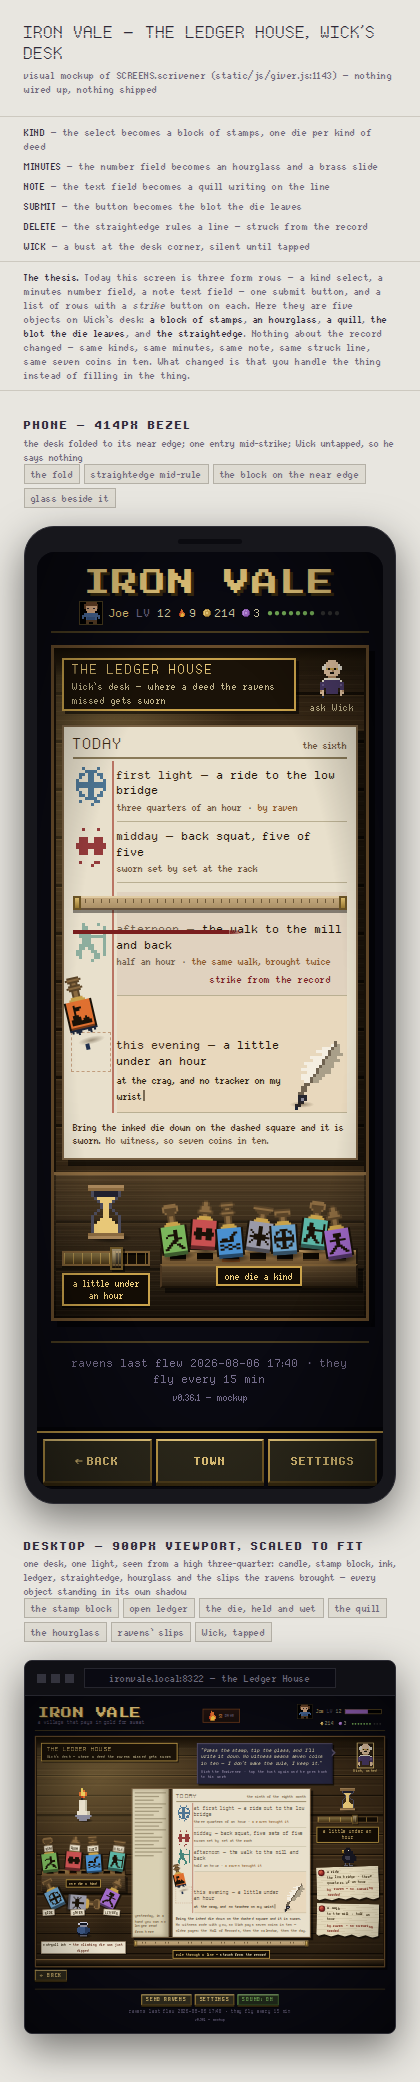
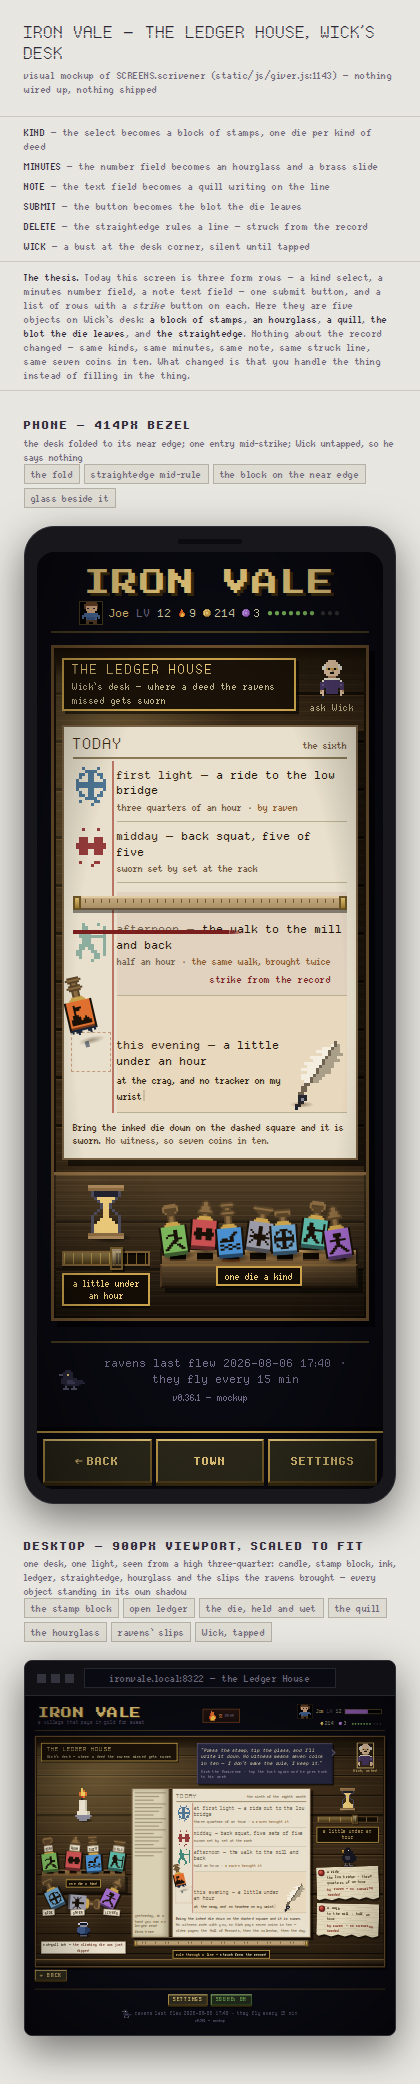
docs: ravens leave the button bars in the mockup chrome

diff --git a/docs/mockups/_harness.js b/docs/mockups/_harness.js
@@ -196,6 +196,9 @@ body { margin:0; background:var(--wall); color:var(--note); font-family:'quanta-
 .iv .phone-dock { display:none; }
 .iv-phone .phone-dock { display:grid; grid-template-columns:repeat(3,minmax(0,1fr)); gap:4px; padding:6px;
   border-top:2px solid var(--gold); background:rgba(10,10,18,0.97); box-shadow:0 -4px 0 rgba(0,0,0,0.45); position:relative; z-index:55; }
+/* the ambient raven sits on the fine-print line — no border, no button chrome */
+.iv .raven-line { display:flex; align-items:flex-end; justify-content:center; gap:6px; }
+.iv .raven-line .raven-perch { display:block; position:relative; top:3px; }
 .iv .dock-action { display:inline-flex; align-items:center; justify-content:center; gap:3px; min-height:44px; padding:4px;
   font-family:var(--font-body); font-size:var(--type-body); font-weight:700; line-height:1; text-transform:uppercase;
   color:var(--gold-bright); border:2px solid; border-color:var(--gold-bright) #7a5f28 #52401c var(--gold);
@@ -391,6 +394,17 @@ body { margin:0; background:var(--wall); color:var(--note); font-family:'quanta-
       '..WWWWWW..', '.WwwwwwwW.', '.iiiiiiii.', '.WwwwwwwW.', '.WwwwwwwW.',
       '.iiiiiiii.', '.WwwwwwwW.', '..WWWWWW..',
     ]},
+    /* hand-authored: the ambient raven. Ravens are sync; they are birds, not a
+       button. Perched small on the footer's fine-print line — calm by default,
+       head turned when one is waiting. */
+    raven_perch: { p: { k: '#2a2a3e', K: '#454560', d: '#17172a', b: '#5a5a70', e: '#f0d080' }, r: [
+      '...kkk.......', '..kkkkk......', 'bbkkekk......', '..kkkkk......', '.kkkkkkkk....',
+      '.kkkKKKkkkkk.', '.kkkKKKKkkkkk', '..dkkkkkkkd..', '...b...b.....', '..bbb.bbb....',
+    ]},
+    raven_perch_waiting: { p: { k: '#2a2a3e', K: '#454560', d: '#17172a', b: '#5a5a70', e: '#f0d080' }, r: [
+      '...kkk.......', '..kkkkk......', '..kkkekbb....', '..kkkkk......', '.kkkkkkkk....',
+      '.kkkKKKkkkkk.', '.kkkKKKKkkkkk', '..dkkkkkkkd..', '...b...b.....', '..bbb.bbb....',
+    ]},
     stone_pile: { p: { s: '#62626e', S: '#84848f' }, r: [
       '.....SSSS.....', '....SsSSSS....', '..SSSSssSSSS..', '.SSssSSSSssSS.',
       '.SSssSSSSssSS.', '.SSSSSSSSSSSS.',
@@ -567,21 +581,24 @@ body { margin:0; background:var(--wall); color:var(--note); font-family:'quanta-
   </div>`;
   };
 
-  /* IV.footer() — SEND RAVENS / SETTINGS / SOUND: ON + the raven line.
+  /* IV.footer() — SETTINGS / SOUND: ON, then the ambient raven line.
+     Ravens are NOT a button any more: there is no SEND RAVENS action in the
+     footer or the dock. Sync shows itself as a bird perched on the fine print,
+     with `opts.ravenWaiting` turning its head when one is waiting.
      The .backrow and .footer-btns hide themselves under .iv-phone (CSS), so the
      same string serves both frames. */
   IV.footer = function (opts) {
     opts = opts || {};
     var ravens = opts.ravens == null ? '2026-08-06 17:40' : opts.ravens;
     var version = opts.version == null ? 'v0.36.1 &mdash; mockup' : opts.version;
+    var bird = opts.ravenWaiting ? 'raven_perch_waiting' : 'raven_perch';
     return `<div class="backrow"><button class="btn small">&larr; BACK</button></div>
   <div class="footer">
     <div class="footer-btns">
-      <button class="btn small">SEND RAVENS</button>
       <button class="btn small">SETTINGS</button>
       <button class="btn small green">SOUND: ON</button>
     </div>
-    <div class="muted">ravens last flew ${ravens} &middot; they fly every 15 min</div>
+    <div class="muted raven-line">${IV.spriteTag(bird, 26, 'raven-perch')}<span>ravens last flew ${ravens} &middot; they fly every 15 min</span></div>
     <div class="muted fine" style="margin-top:4px">${version}</div>
   </div>`;
   };

diff --git a/docs/mockups/place-forge.html b/docs/mockups/place-forge.html
@@ -97,7 +97,10 @@
 .iv .hut .door-lintel i { position:absolute; top:3px; width:3px; height:3px; background:#c8c2b0;
   box-shadow:0 0 0 1px rgba(0,0,0,0.6); }
 .iv .hut .door-lintel i.n1 { left:4px; } .iv .hut .door-lintel i.n2 { right:4px; }
-.iv-phone .hut .door-lintel { left:-9px; right:-9px; font-size:var(--type-fine); letter-spacing:0.5px; }
+.iv-phone .hut .door-lintel { left:-9px; right:-9px; padding-inline:6px;
+  font-size:var(--type-fine); letter-spacing:0.5px; }
+.iv-phone .hut .door-lintel i { top:2px; }
+.iv-phone .hut .door-lintel i.n1 { left:2px; } .iv-phone .hut .door-lintel i.n2 { right:2px; }
 .iv .hut .door-plank { position:absolute; inset:6px 6px 0;
   background:repeating-linear-gradient(90deg,#3c2c18 0 8px,#32240f 8px 9px);
   border-top:2px solid #4c3820; }
@@ -182,7 +185,6 @@
 .iv-phone .billet .b-rail { left:6px; right:6px; height:8px;
   background:linear-gradient(180deg,#b0b0be 0 1px,#74747f 1px 3px,#43434e 3px 6px,#1e1e26 6px 8px); }
 .iv-phone .billet .b-bar { bottom:5px; }
-.iv-phone .anvil-hold .lean { margin-left:-24px; }
 
 /* ================= THE ANVIL, holding a sworn oath ================= */
 .iv .anvil-hold { position:relative; line-height:0; }
@@ -193,6 +195,10 @@
 .iv .anvil-hold .lean { position:absolute; left:100%; margin-left:-4px; bottom:0; line-height:0;
   transform:rotate(-17deg); transform-origin:bottom left;
   filter:drop-shadow(2px 2px 0 rgba(0,0,0,0.5)); }
+/* on the phone the room's right wall is close, so the hammer stands further
+   in against the stump rather than out past the anvil (must follow the rule
+   above: same specificity, so order decides) */
+.iv-phone .anvil-hold .lean { margin-left:-26px; }
 
 /* ================= THE TERMS PANEL — .rack from the harness, dressed ====== */
 .iv .terms { margin:30px 6px 0; padding:56px 12px 10px; }
@@ -864,7 +870,7 @@
   /* --- the sworn plate, hung beside the anvil ----------------------------- */
 
   function swornPlate() {
-    return `<div class="rack tail-up sworn" style="--tailx:173px"
+    return `<div class="rack tail-up sworn" style="--tailx:270px"
         data-seam="PLATE" data-tag="${TAG_PLATE}">
 
       <button class="board-glyph glyph-tongs" data-seam="ABANDON" data-tag="${TAG_ABANDON}">

diff --git a/docs/mockups/place-willow.html b/docs/mockups/place-willow.html
@@ -195,7 +195,6 @@ var SCENE_CSS = `
 .iv .watch .out { opacity:0.6; }
 
 /* corner glyphs — the X-close weight class: a 24px sprite and a fine caption */
-.iv .glyph-raven  { right:6px; }
 .iv .glyph-tally  { right:84px; }
 .iv .glyph-untie  { left:6px; }
 .iv .glyph-sage   { left:6px; }
@@ -257,12 +256,6 @@ IV.addSprites({
     '..pfTttttttTtf..', '..pqTttttttTtf..', '..FfTttttttTff..', '..ffllllllllff..',
     '..pllllllllll...', '..qllllllllll...', '...llll..llll...', '...bbbb..bbbb...',
     '...BBBB..BBBB...',
-  ]},
-  /* the raven — ravens are sync; the omens are only as fresh as the last flight */
-  raven_glyph: { p: { k: '#1b1b22', K: '#2e2e3a', y: '#c9a24b', i: '#8a8a9a' }, r: [
-    '............', '....kkkk....', '...kkkkkk...', '..kkiKkkkky.',
-    '..kkkkkkkkyy', '.kkkkkkkkkk.', '.kkKkkKkkk..', '..kkkkkk....',
-    '...k...k....',
   ]},
   /* the knot, loosened — untying is how a sworn writ is set aside */
   knot_glyph: { p: { p: '#e8e0cc', q: '#cfc4a4', w: '#6a4e2c' }, r: [
@@ -700,8 +693,6 @@ function desktopScene() {
   var panel = ''
   + '<div class="rack tail-up reading" style="--tailx:' + tailPct + '"'
   + ' data-seam="THE READING" data-tag="THE TAIL POINTS BACK|Pinned to that writ\'s own x, so the eye walks back up the paper to the bough it came off.">'
-  + glyph('glyph-raven', 'raven_glyph', 'send ravens',
-      'data-seam="CORNER GLYPHS" data-tag="GLYPHS, NOT BUTTONS|Utilities in the &#10005;-close weight class. Ravens are sync, so this is how the omens are refreshed."')
   + glyph('glyph-tally', 'tally_glyph', 'nights kept',
       'data-seam="ONE GLYPH, ONE MEANING" data-tag="A TALLY, NOT A BOOK|Notches cut in a stick. The book glyph it used to wear is the forge\'s DOCTRINES glyph, and no sprite in the set may carry two meanings."')
   + glyph('glyph-sage', 'elowen_bust', 'ask Elowen')
